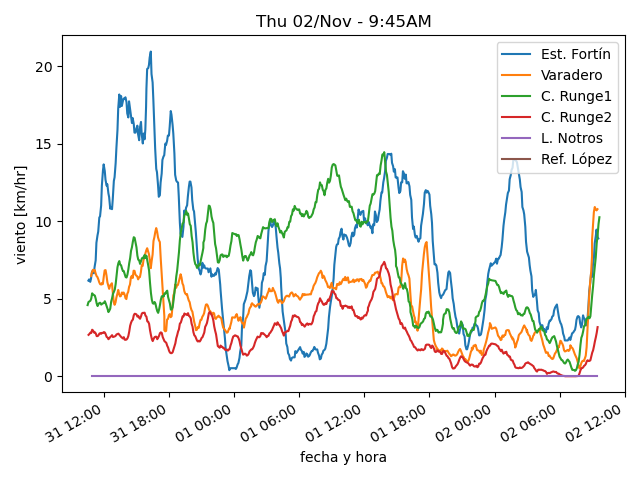
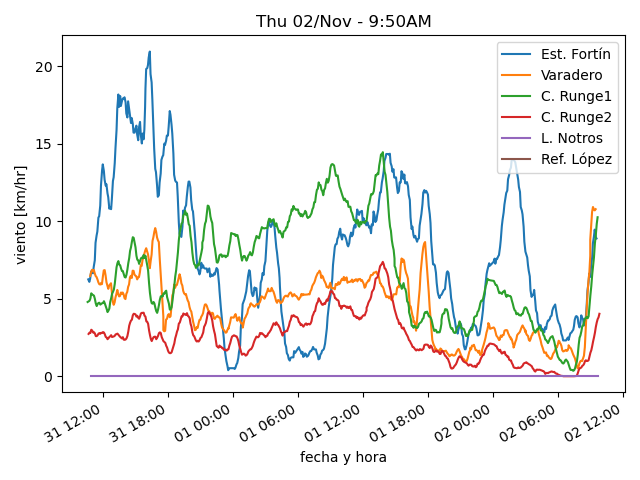
actualiza datos

diff --git a/estaciones/estacion4.html b/estaciones/estacion4.html
@@ -18,32 +18,32 @@
     </tr>
     <tr>
      <td class="stats_data">
-      9:29AM
+      9:49AM
      </td>
     </tr>
     <tr>
      <td class="stats_data">
-      7.5⁰C
+      8.2⁰C
      </td>
     </tr>
     <tr>
      <td class="stats_data">
-      3.3⁰C
+      3.6⁰C
      </td>
     </tr>
     <tr>
      <td class="stats_data">
-      74.8%
+      73.0%
      </td>
     </tr>
     <tr>
      <td class="stats_data">
-      1020.42hPa
+      1020.73hPa
      </td>
     </tr>
     <tr>
      <td class="stats_data">
-      3.1/4.6 km/hr SW
+      3.3/5.0 km/hr NE
      </td>
     </tr>
     <tr>
@@ -53,12 +53,12 @@
     </tr>
     <tr>
      <td class="stats_data">
-      4.0
+      5.0
      </td>
     </tr>
     <tr>
      <td class="stats_data">
-      494.4 W/m²
+      588.1 W/m²
      </td>
     </tr>
    </tbody>

diff --git a/estaciones/estacion5.html b/estaciones/estacion5.html
@@ -18,17 +18,17 @@
     </tr>
     <tr>
      <td class="stats_data">
-      9:25AM
+      9:40AM
      </td>
     </tr>
     <tr>
      <td class="stats_data">
-      6.6⁰C
+      7.2⁰C
      </td>
     </tr>
     <tr>
      <td class="stats_data">
-      2.8⁰C
+      3.5⁰C
      </td>
     </tr>
     <tr>
@@ -38,7 +38,7 @@
     </tr>
     <tr>
      <td class="stats_data">
-      1024.08hPa
+      1023.84hPa
      </td>
     </tr>
     <tr>
